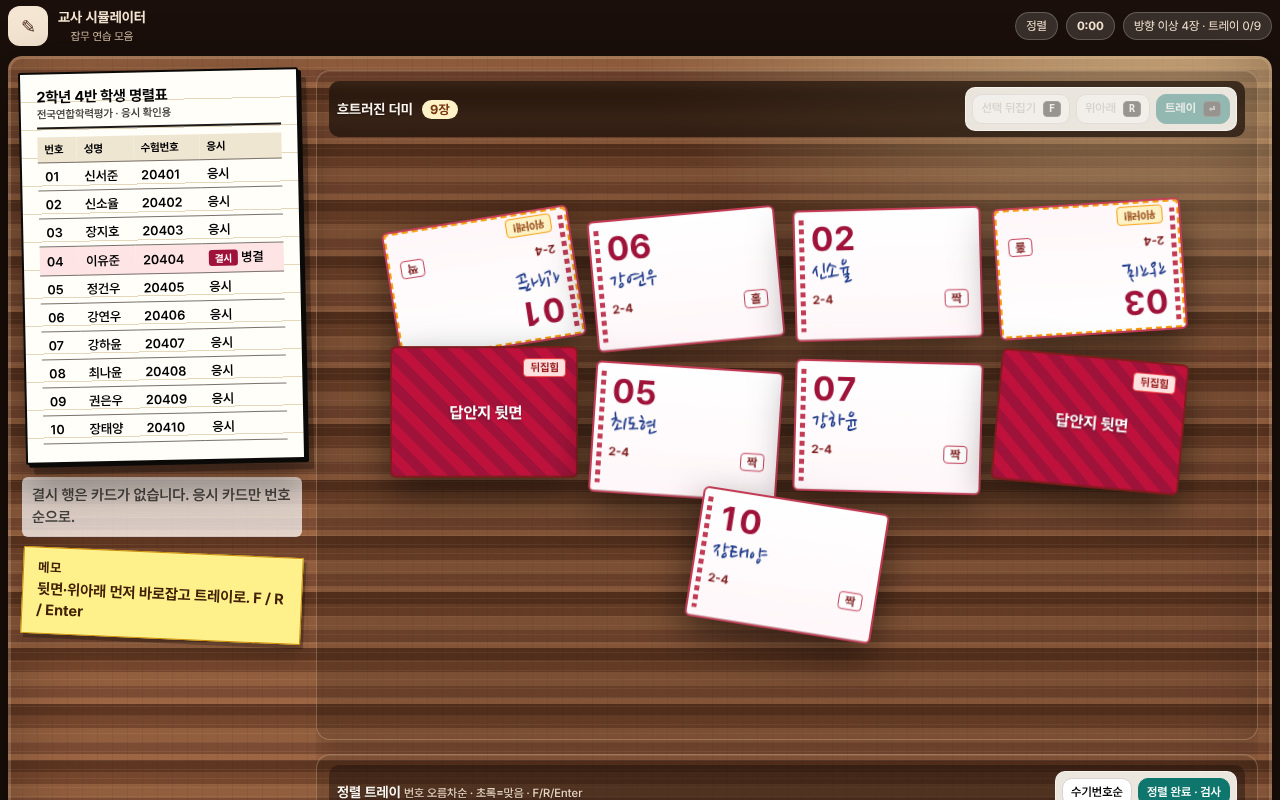
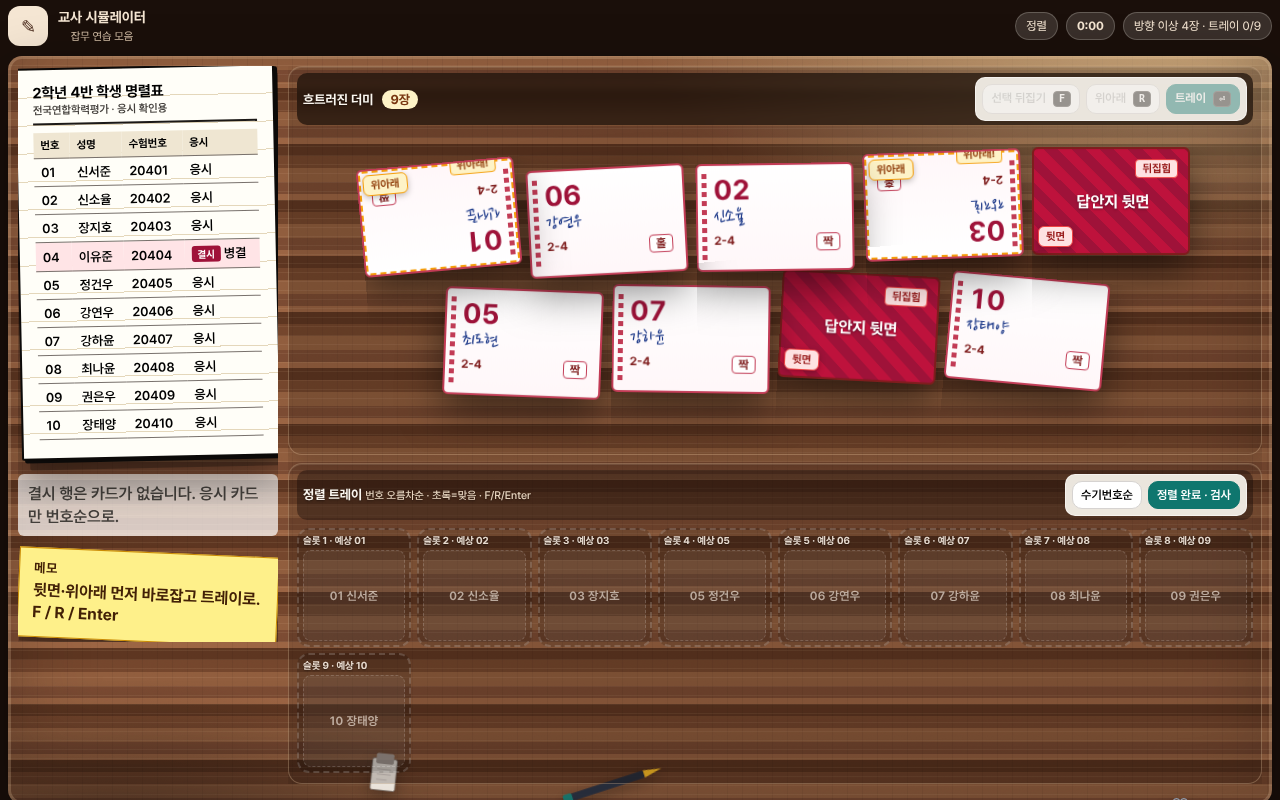
Round 0031: upright orient chips on pile cards
Keep 위아래/뒷면 labels readable outside 3D rotation, soften
fan angles, and lift misoriented cards above neighbors.

diff --git a/src/style.css b/src/style.css
@@ -1123,3 +1123,33 @@ kbd {
     flex-basis: clamp(100px, 26vw, 150px) !important;
   }
 }
+
+/* 0031 readable upside-down cards */
+.pile-area { overflow: visible !important; padding: 12px 10px 16px !important; }
+.pile-zone { overflow: hidden; }
+.pile-card { overflow: visible; }
+.pile-chip {
+  position: absolute;
+  z-index: 6;
+  top: 6px; left: 6px;
+  font-size: 11px; font-weight: 800;
+  padding: 3px 7px; border-radius: 6px;
+  pointer-events: none;
+  box-shadow: 0 2px 6px rgba(0,0,0,0.25);
+  transform: none !important;
+}
+.pile-chip.warn { background: #fef3c7; color: #92400e; border: 1px solid #f59e0b; }
+.pile-chip.back { background: #fee2e2; color: #991b1b; border: 1px solid #ef4444; top: auto; bottom: 8px; }
+.pile-card.has-orient .pile-chip.warn { top: 6px; left: 6px; }
+.pile-card.has-back.has-orient .pile-chip.warn { left: auto; right: 6px; }
+.is-upsidedown .thumb-flags .thumb-badge-orient {
+  transform: rotate(180deg);
+  display: inline-block;
+}
+.is-upsidedown .desk-thumb-face.front {
+  padding-top: 10px;
+  padding-bottom: 10px;
+}
+.desk-sticky { font-size: 16px !important; }
+.desk-sticky p { font-size: 16px !important; }
+.desk-roster > .side-note { font-size: 16px !important; }

diff --git a/src/main.ts b/src/main.ts
@@ -411,11 +411,17 @@ function renderSorting() {
       const card = cardsById.get(id)!
       const n = Math.max(1, pile.length)
       const t = n === 1 ? 0 : i / (n - 1) // 0..1
-      const rot = -7 + t * 14 + ((i % 3) - 1) * 2
-      const lift = (i % 5) * 5
+      const rot = -4 + t * 8 + ((i % 3) - 1) * 1.2
+      const lift = (i % 5) * 4 + (card.upsideDown || card.faceDown ? 8 : 0)
+      const z = (card.upsideDown || card.faceDown ? 40 : 0) + i + 1
+      const chips = [
+        card.faceDown ? '<span class="pile-chip back">뒷면</span>' : '',
+        card.upsideDown ? '<span class="pile-chip warn">위아래</span>' : '',
+      ].join('')
       return `
-<div class="desk-card pile-card ${selectedPileId === id ? 'selected' : ''}" data-id="${id}" draggable="true"
-  style="--r:${rot}deg; --lift:${lift}px; --tilt:${2 + (i % 3)}deg; z-index:${i + 1}">
+<div class="desk-card pile-card ${selectedPileId === id ? 'selected' : ''} ${card.upsideDown ? 'has-orient' : ''} ${card.faceDown ? 'has-back' : ''}" data-id="${id}" draggable="true"
+  style="--r:${rot}deg; --lift:${lift}px; --tilt:${1 + (i % 2)}deg; z-index:${z}">
+  ${chips}
   ${renderDeskThumb(card)}
 </div>`
     })

diff --git a/docs/issues/0031-orient-chips.md b/docs/issues/0031-orient-chips.md
@@ -1,0 +1,13 @@
+# 0031 Upside-down / back card readability
+
+## Critique
+Rotated handwriting buried under neighbors; orient cue rotates with the face.
+
+## Fix
+- Upright `.pile-chip` badges (위아래 / 뒷면) outside the 3D rotate
+- Milder fan (−4…+4°), lift + z-boost for misoriented cards
+- Counter-rotate in-face orient badge; pile-area overflow visible with zone clip
+- Memo/hint 16px
+
+## Verify
+e2e OK · viewport OK · chips present · no card/slot outside 1280×800

diff --git a/docs/ROUNDLOG.md b/docs/ROUNDLOG.md
@@ -18,3 +18,7 @@
 ## Round 0030 (01:35 KST)
 - Sorting: viewport-fit pile+tray, pile-count badge, larger memo/hint, milder fan
 - e2e OK, viewport OK
+
+## Round 0031 (01:36 KST)
+- Orient chips + milder fan; memo 16px
+- e2e OK, viewport OK
